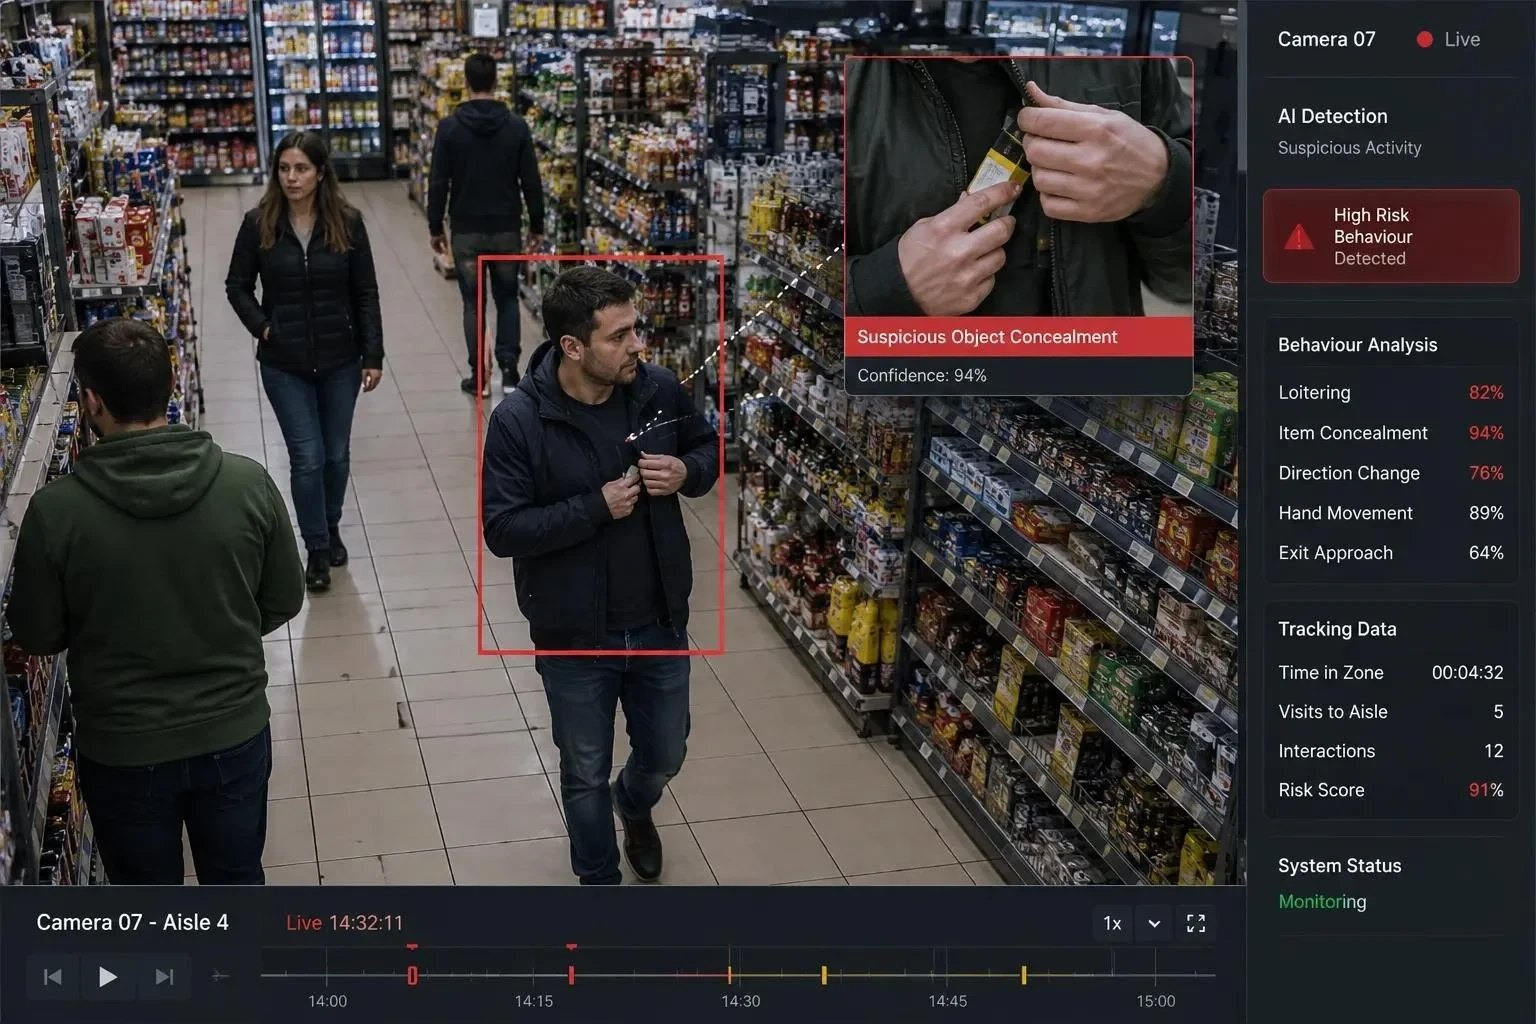
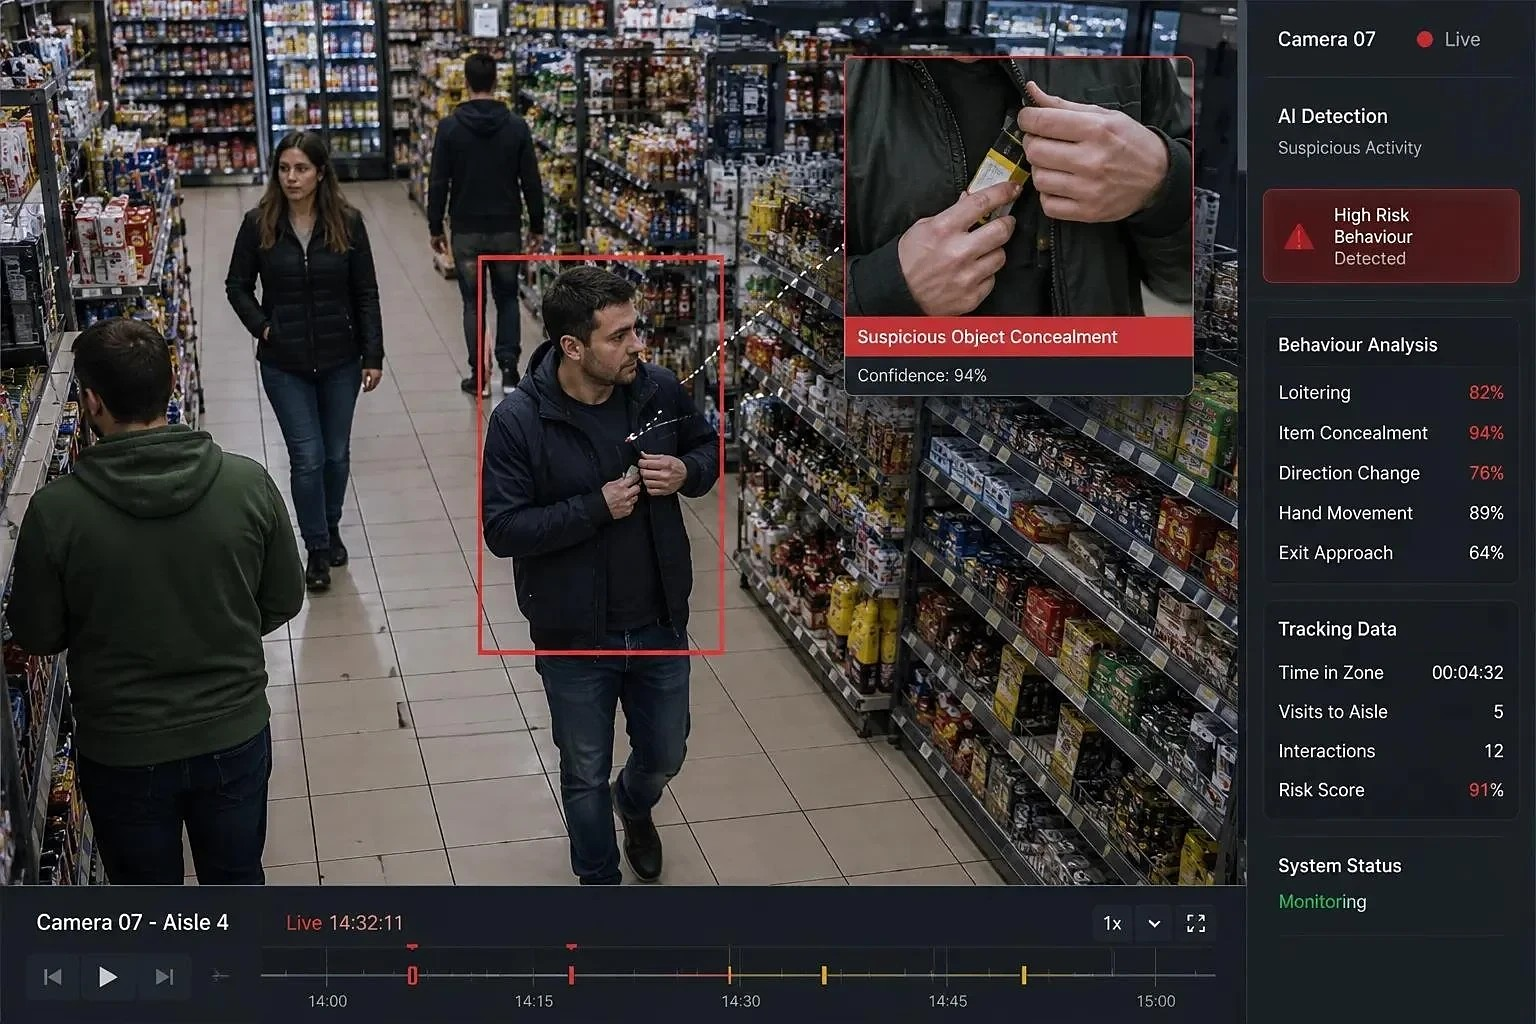
KenVision: alert image under Smart Alerts, dashboard under Dashboards & Reports, sharper images
Claude-Session: https://claude.ai/code/session_011AKMkTLBd2kRPddp4J1yRf

Changed region(s): [[0.875, 0.1875, 0.9062, 0.25]]

diff --git a/kenvision-site/assets-src/kv.css b/kenvision-site/assets-src/kv.css
@@ -1055,3 +1055,6 @@ body { letter-spacing: -0.01em; }
 .fx-pic.light { background: #fff; }
 .fx-pic.light img { object-fit: contain; }
 .fx-pic { aspect-ratio: 8 / 5; }
+.fx-pic.dashfig { background: radial-gradient(ellipse at 50% 0%, rgba(124, 40, 233, .10), transparent 60%), #f1eeea; display: grid; place-items: center; padding: 22px 22px 70px; }
+.fx-pic.dashfig .kx-dash { width: 100%; }
+@media (max-width: 680px) { .fx-pic.dashfig { padding: 12px 12px 64px; } }

diff --git a/kenvision-site/build.py b/kenvision-site/build.py
@@ -434,9 +434,13 @@ def explorer(items):
             ('assets/footage/ken-dwell.jpg', 'Shoppers in a mall store zone with dwell time and visitor figures', 'Dwell time and visitors per zone'),
             ('assets/footage/ken-aisle-heat.jpg', 'Supermarket aisle with a heatmap on the floor showing where shoppers walk', 'Where shoppers walk and stop'),
             ('assets/footage/ken-loiter.jpg', 'Two camera views: a person loitering in a mall and shoplifting detected in a clothing store', 'Loitering and theft flagged'),
-            ('assets/footage/ken-anomaly.jpg', 'KenVision dashboard flagging suspicious object concealment in a supermarket aisle', 'Behaviour analysis in the dashboard'),
-            ('assets/footage/feat-report-kensafety.jpg', 'Team member in a hard hat reading an alert on a tablet', 'Alert on the team\'s tablet')]
-    kinds = [(lambda p=p: f'<figure class="fx-pic{' light' if 'heatmap' in p[0] else ''}">{img(p[0], p[1], lazy=i > 0)}<figcaption>{e(p[2])}</figcaption></figure>') for i, p in enumerate(pics)]
+            ('DASH', 'KenVision store dashboard with live camera, heatmap and footfall chart', 'Your store at a glance'),
+            ('assets/footage/ken-anomaly.jpg', 'KenVision alert for suspicious object concealment in a supermarket aisle', 'Alert with the evidence attached')]
+    def _fig(p, i):
+        if p[0] == 'DASH':
+            return f'<figure class="fx-pic dashfig">{dash()}<figcaption>{e(p[2])}</figcaption></figure>'
+        return f'<figure class="fx-pic">{img(p[0], p[1], lazy=i > 0)}<figcaption>{e(p[2])}</figcaption></figure>'
+    kinds = [(lambda p=p, i=i: _fig(p, i)) for i, p in enumerate(pics)]
     btns = ''.join(f'<button type="button" role="tab" id="fx-t{i}" aria-controls="fx-p{i}" aria-selected="{"true" if i == 0 else "false"}" tabindex="{0 if i == 0 else -1}"><span class="t">{e(t)}</span><span class="d">{e(d)}</span></button>' for i, (t, d) in enumerate(items))
     panels = ''.join(f'<div class="fx-p{" off" if i else ""}" role="tabpanel" id="fx-p{i}" aria-labelledby="fx-t{i}" data-panel{" aria-hidden=" + chr(34) + "true" + chr(34) if i else ""}>{kinds[i]()}</div>' for i in range(len(items)))
     return f'<div class="kx-tabs fx" data-tabs><div class="tablist" role="tablist" aria-label="Capabilities">{btns}</div><div class="stage">{panels}</div></div>'
